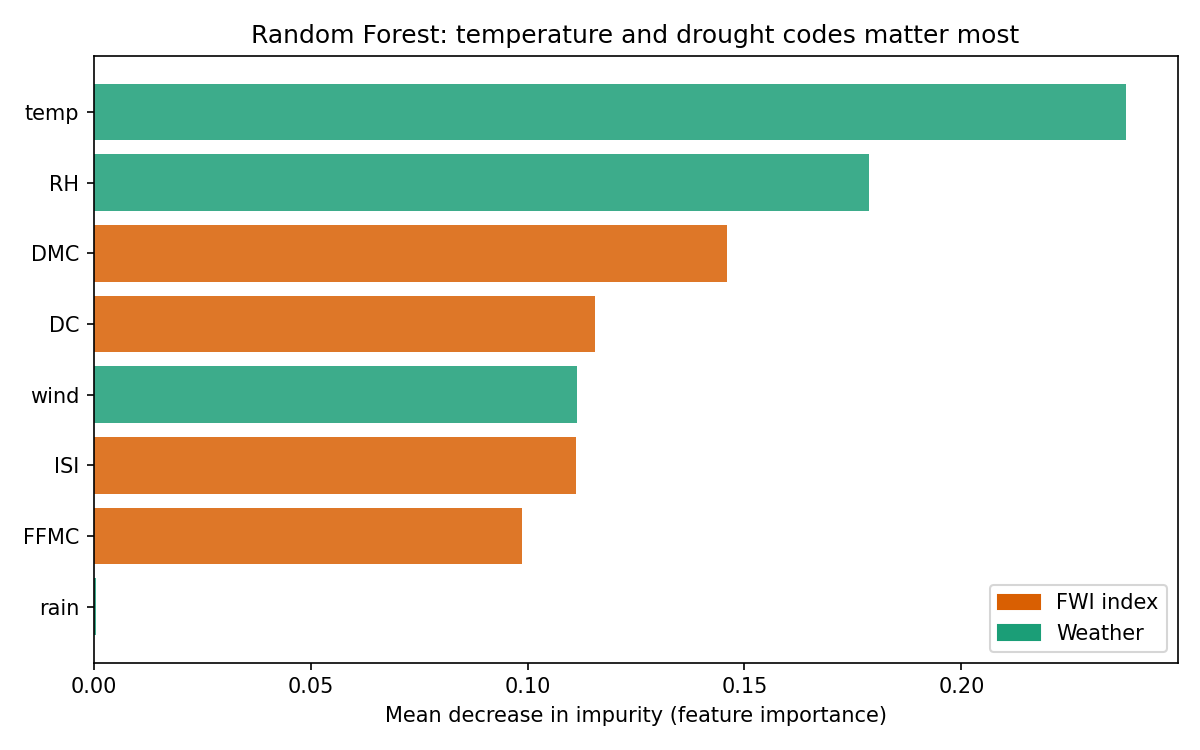
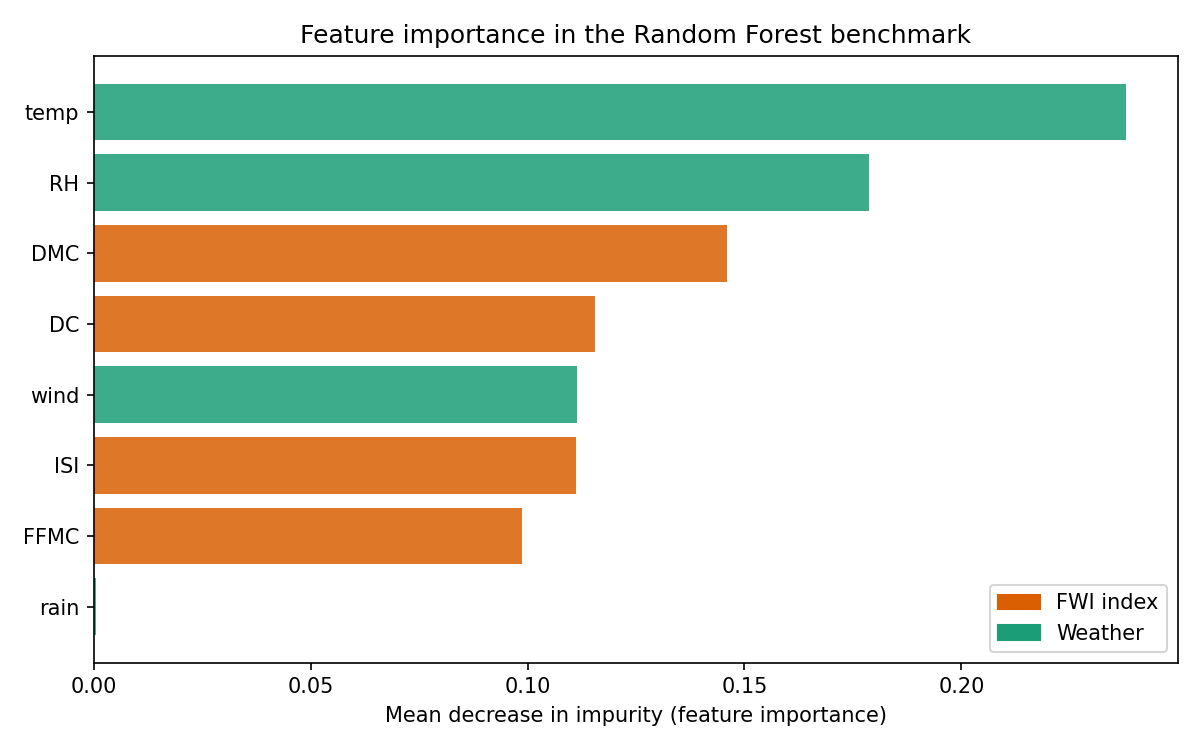
Align forest fire findings and figures with reproduced results

Changed region(s): [[0.2158, 0.0307, 0.8633, 0.0613]]

diff --git a/analysis.py b/analysis.py
@@ -61,7 +61,7 @@ def figure_area_distribution(df: pd.DataFrame) -> None:
     axes[0].hist(df["area"], bins=60, color="#7570b3", edgecolor="white")
     axes[0].set_xlabel("Burned area (ha)")
     axes[0].set_ylabel("Number of fires")
-    axes[0].set_title(f"Raw area: {zero_share:.0%} of fires burn < 1 ha")
+    axes[0].set_title(f"Raw area: {zero_share:.1%} of records are 0 ha")
     axes[1].hist(df["log_area"], bins=40, color="#1b9e77", edgecolor="white")
     axes[1].set_xlabel("log(1 + burned area)")
     axes[1].set_ylabel("Number of fires")
@@ -74,13 +74,15 @@ def figure_area_distribution(df: pd.DataFrame) -> None:
 
 
 def figure_temp_vs_area(df: pd.DataFrame) -> None:
+    positive_area = df[df["area"] > 0]
     fig, ax = plt.subplots(figsize=(8, 5.5))
-    sc = ax.scatter(df["temp"], df["area"], c=df["RH"], cmap="coolwarm_r",
+    sc = ax.scatter(positive_area["temp"], positive_area["area"],
+                    c=positive_area["RH"], cmap="coolwarm_r",
                     alpha=0.65, edgecolors="none", s=28)
     ax.set_yscale("log")
     ax.set_xlabel("Temperature (deg C)")
     ax.set_ylabel("Burned area (ha, log scale)")
-    ax.set_title("Larger fires cluster at high temperature and low humidity")
+    ax.set_title("Temperature and burned area for records above 0 ha")
     cbar = fig.colorbar(sc, ax=ax)
     cbar.set_label("Relative humidity (%)")
     fig.tight_layout()
@@ -99,7 +101,7 @@ def figure_correlation_heatmap(df: pd.DataFrame) -> None:
         for j in range(len(cols)):
             ax.text(j, i, f"{corr.iloc[i, j]:.2f}", ha="center", va="center",
                     fontsize=8, color="black")
-    ax.set_title("Correlation of FWI indices and weather with log(area)")
+    ax.set_title("Correlation of FWI indices and weather with log(1 + area)")
     fig.colorbar(im, ax=ax, shrink=0.8)
     fig.tight_layout()
     fig.savefig(FIG_DIR / "correlation_heatmap.png", dpi=150)
@@ -117,7 +119,6 @@ def train_model(df: pd.DataFrame):
         X, y, test_size=0.2, random_state=42)
 
     baseline_pred = np.full_like(y_test, y_train.median(), dtype=float)
-    baseline_mae = mean_absolute_error(y_test, baseline_pred)
 
     model = RandomForestRegressor(n_estimators=400, min_samples_leaf=3,
                                   random_state=42, n_jobs=-1)
@@ -125,7 +126,8 @@ def train_model(df: pd.DataFrame):
     pred = model.predict(X_test)
 
     metrics = {
-        "baseline_mae": baseline_mae,
+        "baseline_mae": mean_absolute_error(y_test, baseline_pred),
+        "baseline_r2": r2_score(y_test, baseline_pred),
         "rf_mae": mean_absolute_error(y_test, pred),
         "rf_r2": r2_score(y_test, pred),
         "n_train": len(X_train),
@@ -140,7 +142,7 @@ def figure_feature_importance(model) -> None:
     colors = ["#d95f02" if c in FWI_COLS else "#1b9e77" for c in imp.index]
     ax.barh(imp.index, imp.values, color=colors, alpha=0.85)
     ax.set_xlabel("Mean decrease in impurity (feature importance)")
-    ax.set_title("Random Forest: temperature and drought codes matter most")
+    ax.set_title("Feature importance in the Random Forest benchmark")
     from matplotlib.patches import Patch
     ax.legend(handles=[Patch(color="#d95f02", label="FWI index"),
                        Patch(color="#1b9e77", label="Weather")],
@@ -172,7 +174,8 @@ def main() -> None:
     print(f"Records: {len(df)}")
     print(f"Burned-area stats (ha): mean={df['area'].mean():.1f}, "
           f"median={df['area'].median():.1f}, max={df['area'].max():.1f}")
-    print(f"Fires burning < 1 ha: {(df['area'] == 0).mean():.1%} of records")
+    print(f"Recorded at 0 ha: {(df['area'] == 0).mean():.1%} of records")
+    print(f"Recorded below 1 ha: {(df['area'] < 1).mean():.1%} of records")
     top_months = df.groupby("month", observed=True)["area"].sum().nlargest(3)
     print("Top months by burned area:")
     print(top_months.to_string())
@@ -186,6 +189,7 @@ def main() -> None:
     print("\nModel benchmark (RandomForestRegressor, target = log1p(area)):")
     print(f"  train/test split: {metrics['n_train']}/{metrics['n_test']}")
     print(f"  baseline MAE (predict train median): {metrics['baseline_mae']:.3f}")
+    print(f"  baseline R^2:                        {metrics['baseline_r2']:.3f}")
     print(f"  Random Forest MAE:                   {metrics['rf_mae']:.3f}")
     print(f"  Random Forest R^2:                   {metrics['rf_r2']:.3f}")
     figure_feature_importance(model)

diff --git a/README.md b/README.md
@@ -49,7 +49,7 @@ components (FFMC, DMC, DC, ISI) predict the burned area?
 data-science-project/
 |-- analysis.py              # full pipeline: EDA figures + model benchmark
 |-- forestfires.csv          # dataset (UCI, CC BY 4.0)
-|-- requirements.txt         # pinned dependencies
+|-- requirements.txt         # Python dependencies
 |-- figures/                 # all generated visualizations
 |   |-- monthly_burned_area.png
 |   |-- area_distribution.png
@@ -64,32 +64,33 @@ data-science-project/
 
 ### 1. Fire damage is concentrated in late summer
 
-August and September account for ~5,384 ha of the ~6,639 ha total burned area -
-over 80% of all damage in two months, matching the peak in fire counts.
+August and September account for 5,384 ha of the 6,642 ha total burned area
+(81.1%). These months also had the highest fire counts in the sample.
 
 ![Monthly burned area](figures/monthly_burned_area.png)
 
 ### 2. The target is zero-inflated and extremely skewed
 
-Nearly half of all fires (47.8%) burn less than 1 ha, while the largest single
-fire burned 1,090.8 ha. Mean = 12.8 ha vs. median = 0.5 ha. Even after a
+Burned area was recorded as 0 ha for 47.8% of fires and below 1 ha for 53.0%.
+The largest recorded fire burned 1,090.8 ha. The mean is 12.8 ha and the
+median is 0.5 ha. Even after a
 `log1p` transform the distribution stays right-skewed - a warning sign for any
 regression model.
 
 ![Area distribution](figures/area_distribution.png)
 
-### 3. Large fires cluster under hot, dry conditions
+### 3. Low humidity was common among the largest fires
 
-Fires burning more than ~100 ha occur almost exclusively above 20 deg C with
-relative humidity below 45%.
+Of the 11 fires that burned more than 100 ha, nine occurred below 45% relative
+humidity and five occurred both below 45% humidity and above 20 °C. The plot
+shows records with positive burned area because the vertical axis is logarithmic.
 
 ![Temperature vs area](figures/temp_vs_area.png)
 
 ### 4. But no single variable explains fire size
 
-All pairwise correlations between FWI indices / weather and `log(area)` are
-weak (|r| < 0.1). Temperature correlates with the drought codes (as expected
-physically), but not with the outcome itself.
+Pearson correlations between each weather or FWI variable and `log1p(area)`
+are weak (|r| < 0.1). This measures linear association in the sample.
 
 ![Correlation heatmap](figures/correlation_heatmap.png)
 
@@ -101,34 +102,32 @@ held-out 20% test split (`random_state=42`):
 
 | Model | MAE (log-ha) | R2 |
 |---|---|---|
-| Baseline (predict train median) | 1.133 | 0.000 |
+| Baseline (predict train median) | 1.133 | -0.229 |
 | Random Forest | 1.193 | -0.011 |
 
 ![Feature importance](figures/feature_importance.png)
 
 ![Predicted vs actual](figures/predicted_vs_actual.png)
 
-**The honest result: the Random Forest cannot beat the median baseline.**
-Feature importances confirm the EDA story - temperature, humidity and the
-drought codes (DMC, DC) carry the most signal - but that signal is not enough
-to predict how much a given fire will burn. Burned area appears to be driven
-largely by factors *outside* this dataset: ignition cause, firefighting
-response time, terrain, and fuel load. This mirrors the original paper, which
-also found burned area very hard to predict (Cortez & Morais, 2007).
+The Random Forest had higher mean absolute error than the median baseline on
+the log scale. Its R² improved over that baseline and remained slightly below
+zero. This split provides limited evidence of predictive value from the eight
+inputs. Terrain, fuel load, and firefighting response time are examples of
+variables that could be tested with additional data.
 
 ## Limitations
 
 - **Weak predictive signal:** weather and FWI features alone are insufficient;
   the best model achieves R2 ~= 0 on held-out data.
-- **Zero inflation:** 47.8% of records have `area = 0`, breaking the assumptions
-  of plain regression; a hurdle/two-part model would be more appropriate.
+- **Many zeros:** 47.8% of records have `area = 0`. A two-part model could
+  estimate the chance of positive burned area and then estimate its size.
 - **Small, old, single-park dataset:** 517 records from one park (2000-2003)
   limit generalization to other regions or today's climate.
 
 ## Future Work
 
-- Reformulate as a **two-part (hurdle) model**: first classify "will the fire
-  burn > 1 ha?", then regress size only on positive cases.
+- Compare a two-part model with the baselines using repeated splits. First
+  predict whether the recorded burned area is positive, then estimate its size.
 - Try gradient boosting (XGBoost/LightGBM) with spatial features (`X`, `Y`
   grid coordinates) and month as a categorical feature.
 - Add external data sources (firefighting response times, land cover) to test
@@ -139,12 +138,12 @@ also found burned area very hard to predict (Cortez & Morais, 2007).
 ```bash
 git clone https://github.com/aungminnkhant94/data-science-project.git
 cd data-science-project
-pip install -r requirements.txt
+python -m pip install -r requirements.txt
 python analysis.py
 ```
 
-The script prints summary statistics and model metrics, and regenerates all
-six figures in `figures/`. Total runtime: under 15 seconds.
+The script uses the UCI dataset included as `forestfires.csv`, prints summary
+statistics and model metrics, and regenerates all six figures in `figures/`.
 
 ## References
 
